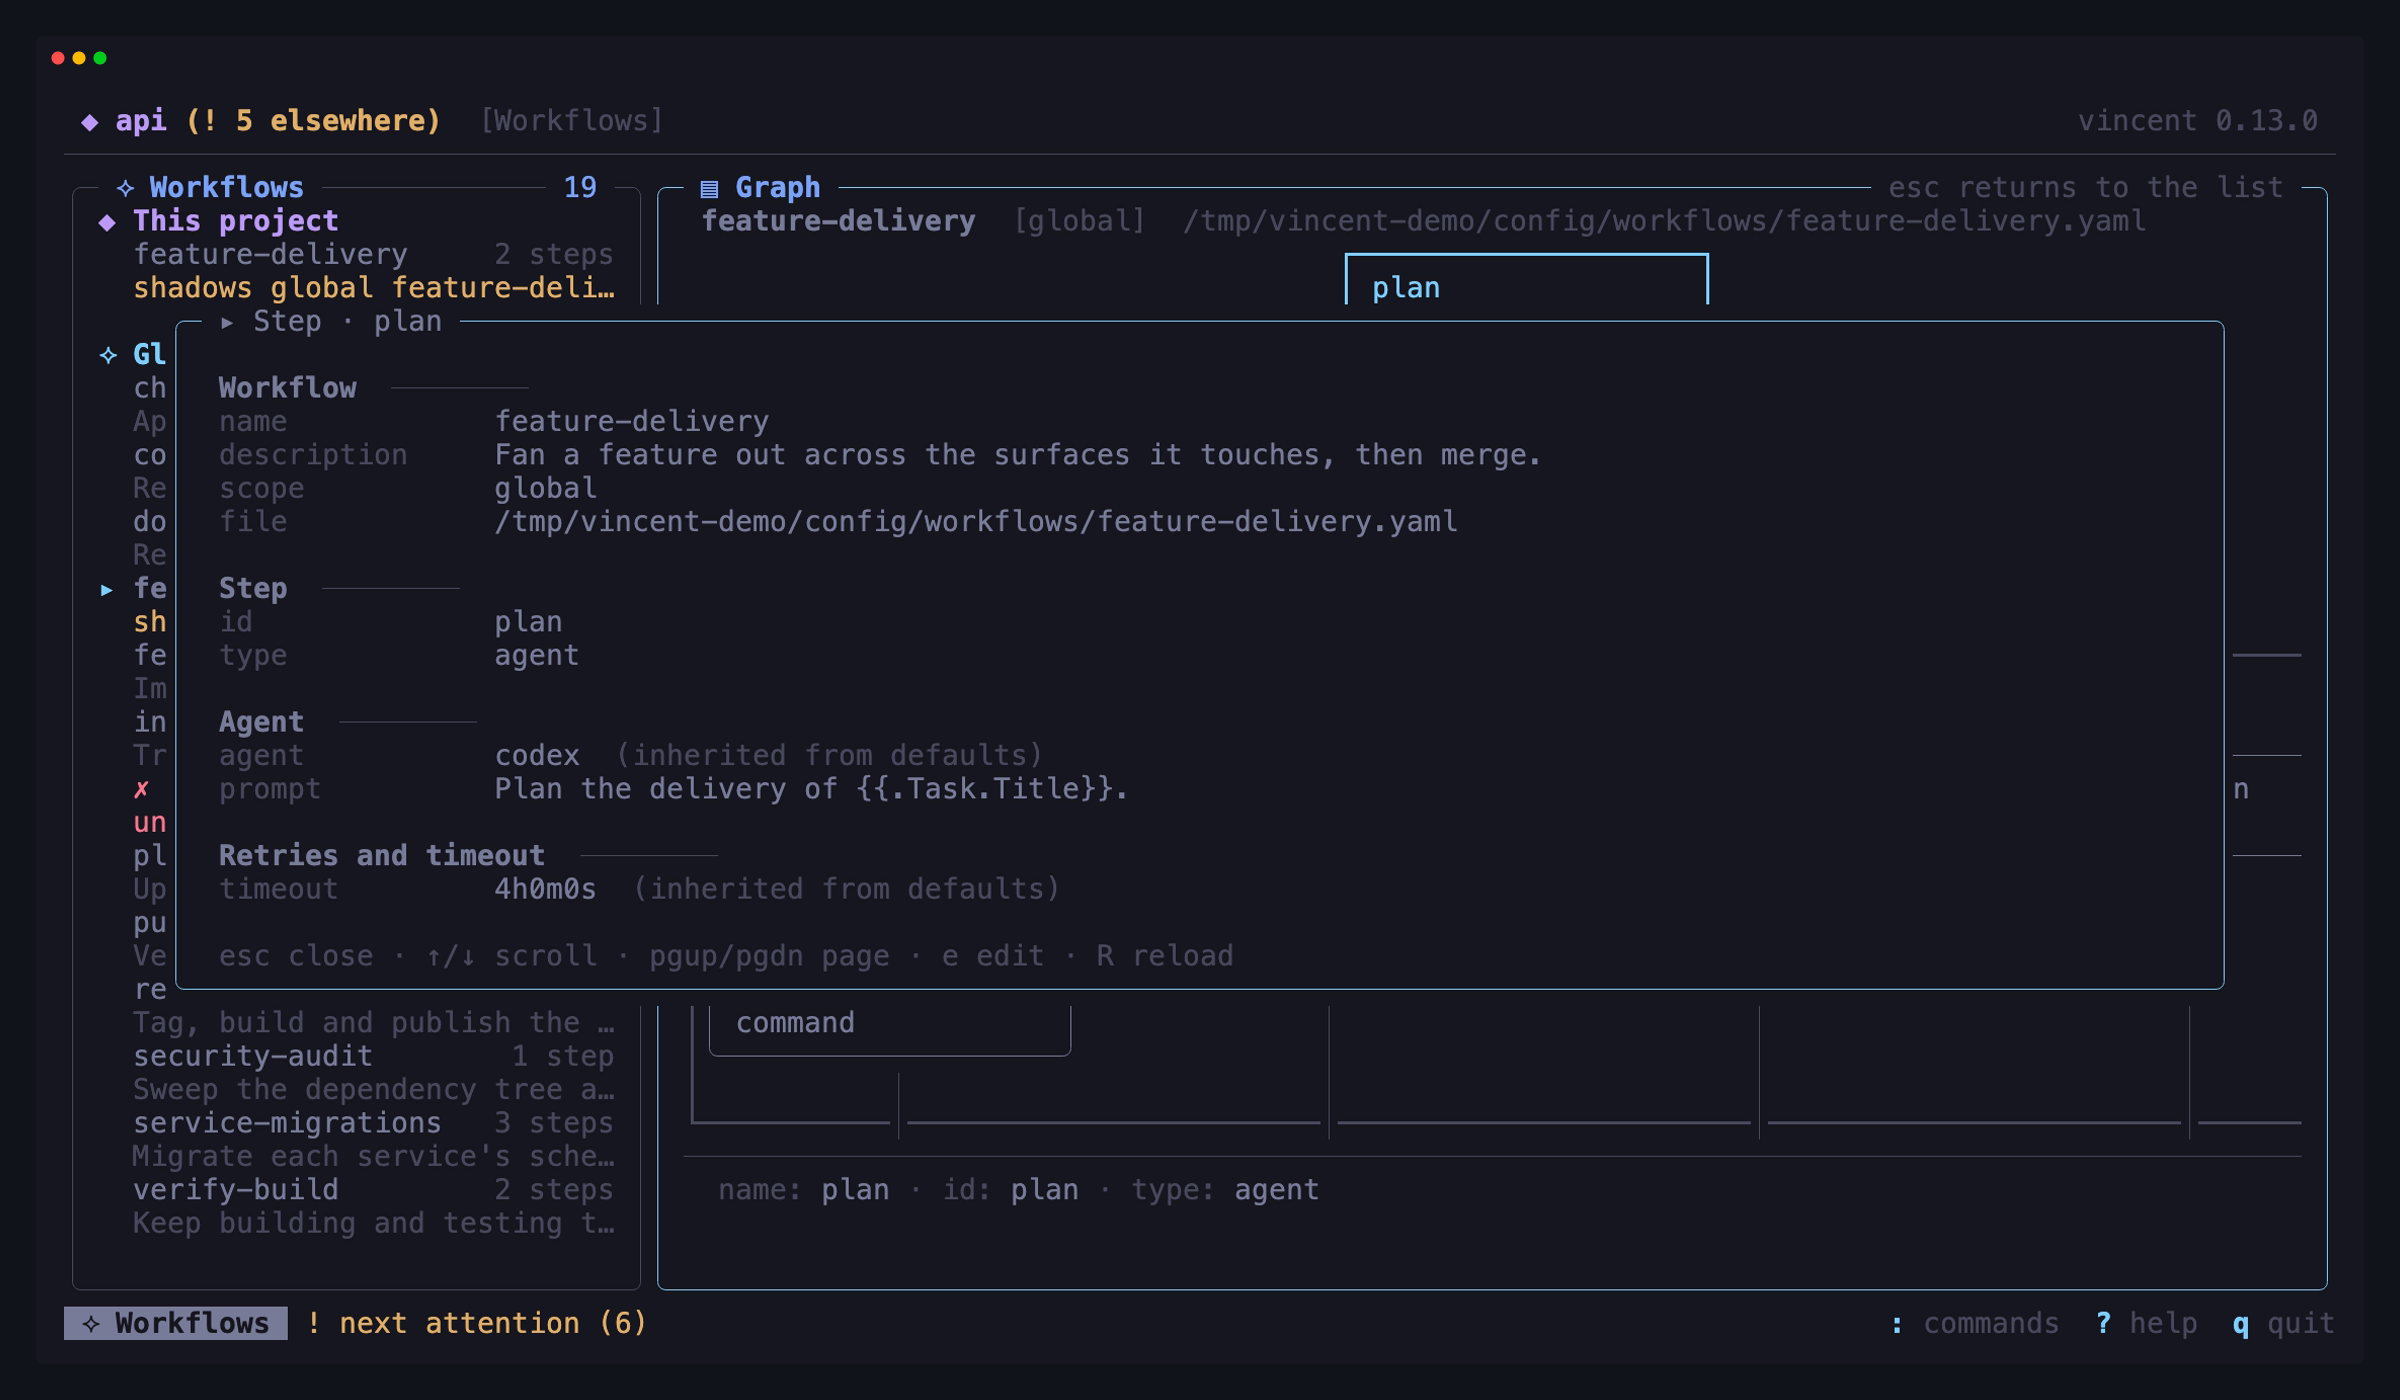
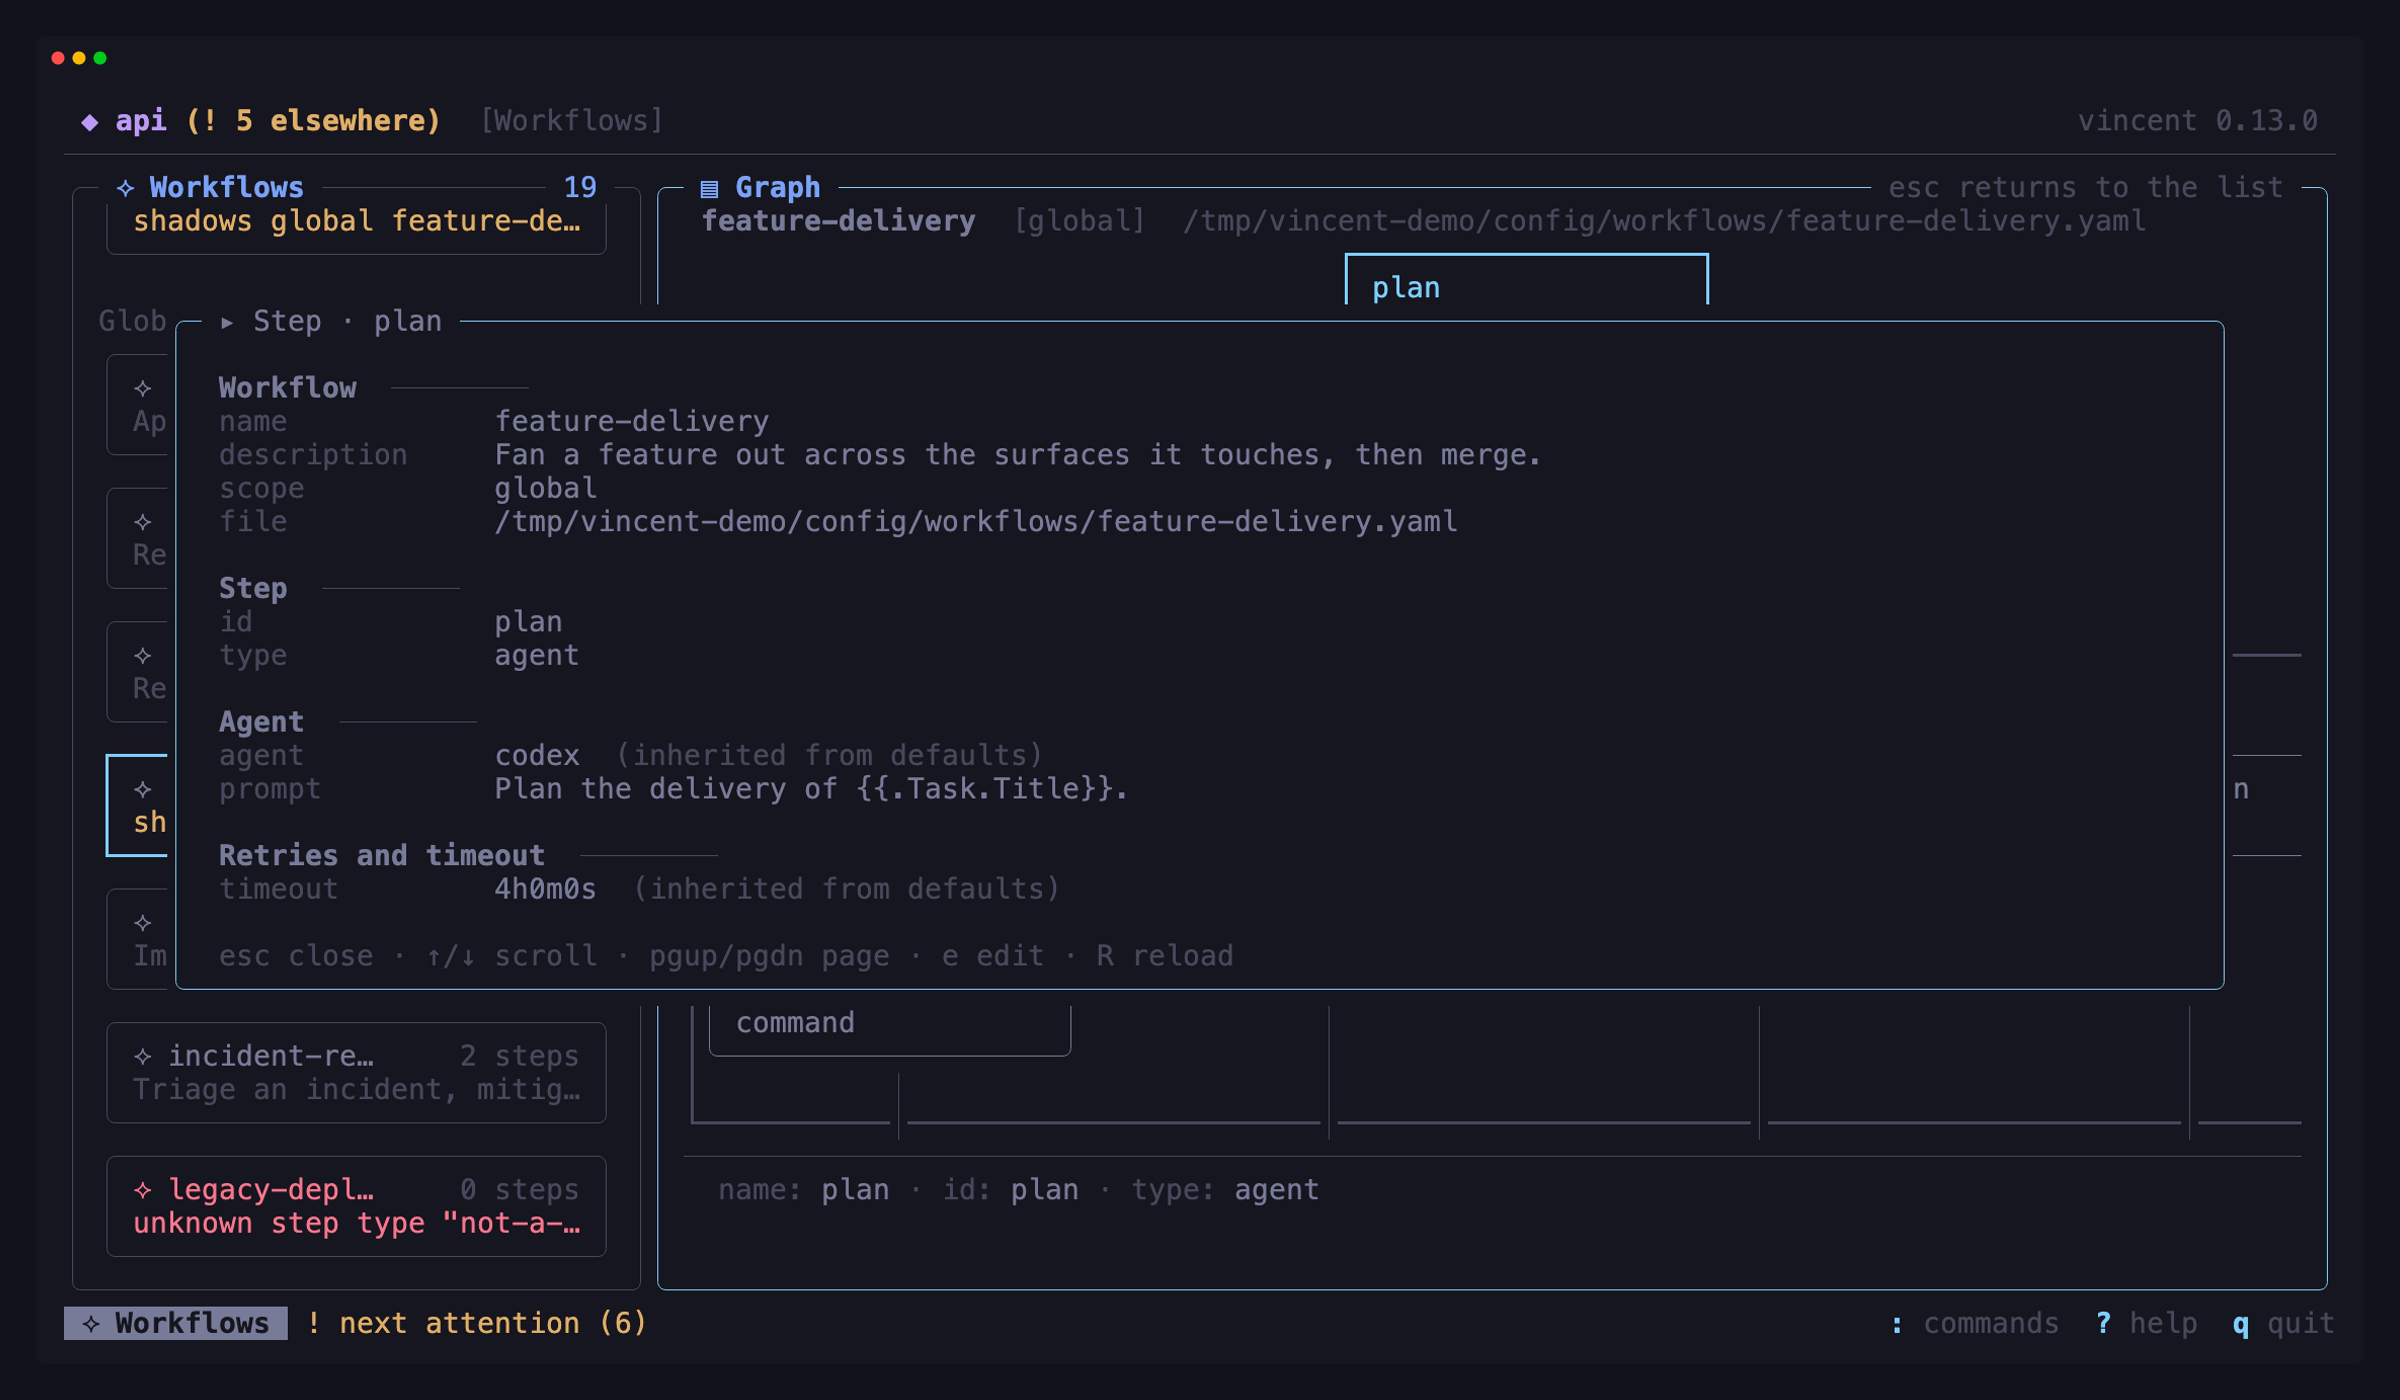
feat(tui): draw the workflows registry as new-task workflow cards

diff --git a/internal/tui/workflowswide.go b/internal/tui/workflowswide.go
@@ -24,8 +24,9 @@ const (
 	wfDetailsMinW = 150
 	// wfPreviewDebounce is how long the selection rests before its graph is read.
 	wfPreviewDebounce = 150 * time.Millisecond
-	// wfRowH is one registry entry's height: its name and one line about it.
-	wfRowH = 2
+	// wfCardH is one workflow card's height: its name and one line about it,
+	// boxed. The new-task list draws the same cards.
+	wfCardH = 4
 )
 
 // workflowPreviewDueMsg says the selection may have rested on key long enough.
@@ -54,18 +55,6 @@ func wfScopeRank(scope string) int {
 		return 1
 	default:
 		return 2
-	}
-}
-
-// wfGroupTitle is the heading over one rank's entries.
-func wfGroupTitle(rank int) string {
-	switch rank {
-	case 0:
-		return toneMagenta.Bold(true).Render(ic(headerProjectGlyph + " This project"))
-	case 1:
-		return toneCyan.Bold(true).Render(ic("⟡ Global"))
-	default:
-		return toneBlue.Bold(true).Render(ic("▣ Built-in"))
 	}
 }
 
@@ -146,8 +135,9 @@ func (w *workflowsView) renderWide(width, height int) string {
 	return strings.Join(append(top, panes...), "\n")
 }
 
-// registryPane is the entries under their scopes, scrolled to keep the selected
-// one on screen.
+// registryPane is the entries as cards under their scopes, scrolled to keep the
+// selected one on screen. It is drawn the way the new-task screen draws its
+// workflow list, so the two read and move alike.
 func (w *workflowsView) registryPane(width, h, top int) []string {
 	inner := max(width-4, 1)
 	lines := w.lines()
@@ -170,12 +160,12 @@ func (w *workflowsView) registryPane(width, h, top int) []string {
 				add(-1, "")
 			}
 			rank = r
-			add(-1, wfGroupTitle(r))
+			add(-1, styleDim.Render(workflowScopeName(line.entry.Scope)))
 		}
 		if i == w.cursor {
 			from = len(rows)
 		}
-		add(i, wfRegistryRow(line, inner, i == w.cursor)...)
+		add(i, wfRegistryCard(line, inner, i == w.cursor)...)
 	}
 	if body, ok := w.emptyBody(lines); ok {
 		rows = styled(wrapText(strings.TrimSpace(ansi.Strip(body)), inner, wrapOpts{}), styleDim)
@@ -185,8 +175,8 @@ func (w *workflowsView) registryPane(width, h, top int) []string {
 	start := 0
 	if len(rows) > room {
 		start = max(min(windowStart(len(rows), from, room), from), 0)
-		if from+wfRowH > start+room {
-			start = from + wfRowH - room
+		if from+wfCardH > start+room {
+			start = from + wfCardH - room
 		}
 		start = max(min(start, len(rows)-room), 0)
 	}
@@ -197,32 +187,27 @@ func (w *workflowsView) registryPane(width, h, top int) []string {
 			w.hits = append(w.hits, mgmtHit{1, width - 1, y, y + 1, owner[r]})
 		}
 	}
-	border := styleDim
+	right, edges, border := toneBlue.Render(strconv.Itoa(len(w.global)+len(w.own))), edgesRounded, styleDim
 	if w.graph == nil {
-		border = styleFocus
+		right = styleDim.Render("↑↓ choose  ") + right
+		edges, border = edgesThick, styleFocus
 	}
-	count := toneBlue.Render(strconv.Itoa(len(w.global) + len(w.own)))
-	return drawBox(toneBlue.Bold(true).Render(ic("⟡ Workflows")), count, rows[start:], width, h, edgesRounded, border)
+	return drawBox(toneBlue.Bold(true).Render(ic("⟡ Workflows")), right, rows[start:], width, h, edges, border)
 }
 
-// wfRegistryRow is one entry: its name, then the most useful thing about it.
-func wfRegistryRow(line wfLine, inner int, selected bool) []string {
+// wfRegistryCard is one entry as a workflow card: its name, then the most
+// useful thing about it.
+func wfRegistryCard(line wfLine, w int, selected bool) []string {
 	e := line.entry
-	marker, name := "  ", e.Name
+	name := stylePlain
 	switch {
-	case selected:
-		marker, name = styleFocus.Render("▸ "), styleTitle.Render(name)
 	case !e.Valid():
-		name = styleBad.Render(name)
+		name = styleBad
 	case line.shadowedBy != "":
-		name = styleDim.Render(name)
+		name = styleDim
 	}
-	lead, _ := workflowRailBadge(*e)
-	steps := styleDim.Render(plural(len(e.Steps), "step", "steps"))
-	room := max(inner-ansi.StringWidth(steps)-1, 1)
-	head := padBetweenCells(ansi.Truncate(marker+lead+name, room, "…"), steps, inner)
 	detail, style := wfRowDetail(line)
-	return []string{head, "  " + style.Render(ansi.Truncate(oneLine(detail), max(inner-2, 1), "…"))}
+	return workflowCardLines(*e, name, detail, style, selected, w)
 }
 
 // wfRowDetail picks the one line an entry gets, what stops it running first.

diff --git a/internal/tui/newtaskwide.go b/internal/tui/newtaskwide.go
@@ -6,6 +6,7 @@ import (
 	"strings"
 
 	tea "charm.land/bubbletea/v2"
+	"charm.land/lipgloss/v2"
 	"github.com/charmbracelet/x/ansi"
 
 	"github.com/lezli01/vincent/internal/apiclient"
@@ -206,17 +207,26 @@ func (n *newTask) workflowPane(w, h int) []string {
 
 // workflowCard is one workflow. One that cannot be chosen says why.
 func workflowCard(e apiclient.WorkflowEntry, opt pickerOption, selected bool, w int) []string {
+	second, style := e.Description, styleDim
+	if opt.disabled {
+		second, style = opt.note, styleBad
+	}
+	return workflowCardLines(e, stylePlain, second, style, selected, w)
+}
+
+// workflowCardLines draws one workflow card, the shape the new-task list and
+// the Workflows screen share: the name and its length on top, one line about it
+// below, and a thick border on the selected card so selection does not rely on
+// colour.
+func workflowCardLines(e apiclient.WorkflowEntry, name lipgloss.Style, second string, secondStyle lipgloss.Style, selected bool, w int) []string {
 	inner := max(w-4, 1)
-	name, edges, border := stylePlain, edgesRounded, styleDim
+	edges, border := edgesRounded, styleDim
 	if selected {
 		name, edges, border = styleTitle, edgesThick, styleFocus
 	}
-	second := styleDim.Render(oneLine(e.Description))
-	if opt.disabled {
-		second = styleBad.Render(oneLine(opt.note))
-	}
 	head := padBetweenCells(name.Render(ansi.Truncate(ic("⟡ ")+oneLine(e.Name), max(inner-12, 8), "…")), styleDim.Render(workflowMeta(e)), inner)
-	return drawBox("", "", []string{head, second}, w, 4, edges, border)
+	tail := secondStyle.Render(ansi.Truncate(oneLine(second), inner, "…"))
+	return drawBox("", "", []string{head, tail}, w, wfCardH, edges, border)
 }
 
 // widePane is the form itself.

diff --git a/internal/tui/workflowswide_test.go b/internal/tui/workflowswide_test.go
@@ -89,8 +89,29 @@ func TestWorkflowsWideShortTerminalKeepsTheSelection(t *testing.T) {
 	}
 	out := w.render(180, 10)
 	assertFills(t, out, 180, 10)
-	if !strings.Contains(ansi.Strip(out), "▸ adhoc") {
+	if !strings.Contains(ansi.Strip(out), "⟡ adhoc") {
 		t.Errorf("the selected entry scrolled away:\n%s", ansi.Strip(out))
+	}
+}
+
+// The registry draws the new-task screen's workflow cards: the selected one is
+// the only card with a thick border, so selection does not rely on colour.
+func TestWorkflowsWideDrawsTheNewTaskCards(t *testing.T) {
+	w := wideWorkflows(t, 180)
+	listW, _ := wfPaneWidths(180)
+	pane := w.registryPane(listW, 40, 0)
+	selected := workflowCardLines(w.own[0], stylePlain, "", styleDim, true, listW-4)
+	if got := ansi.Strip(strings.Join(pane, "\n")); !strings.Contains(got, ansi.Strip(selected[0])) {
+		t.Fatalf("the selected entry is not the new-task card:\n%s", got)
+	}
+	thick := 0
+	for _, row := range pane[1 : len(pane)-1] {
+		if strings.Contains(ansi.Strip(row), "┏") {
+			thick++
+		}
+	}
+	if thick != 1 {
+		t.Fatalf("%d cards have a thick border, want 1", thick)
 	}
 }
 

diff --git a/docs/guides/tui.md b/docs/guides/tui.md
@@ -2183,7 +2183,10 @@ own workflows cannot be read, the global rows stay on screen with an error
 line above them.
 
 From 130 columns the registry is grouped into **This project**, **Global** and
-**Built-in**, and the selected workflow's graph is drawn beside it as you move.
+**Built-in**, each workflow drawn as the same card the new-task screen uses:
+its name, how many steps and gates it has, and one line about it. The selected
+card has the thick border. The selected workflow's graph is drawn beside it as
+you move.
 From 150 columns a details pane adds the entry's scope and source, availability
 and findings, declared fields, and steps with the agents they resolve to. `g` or
 `enter` moves the keyboard into the graph, and `esc` returns to the same entry.
